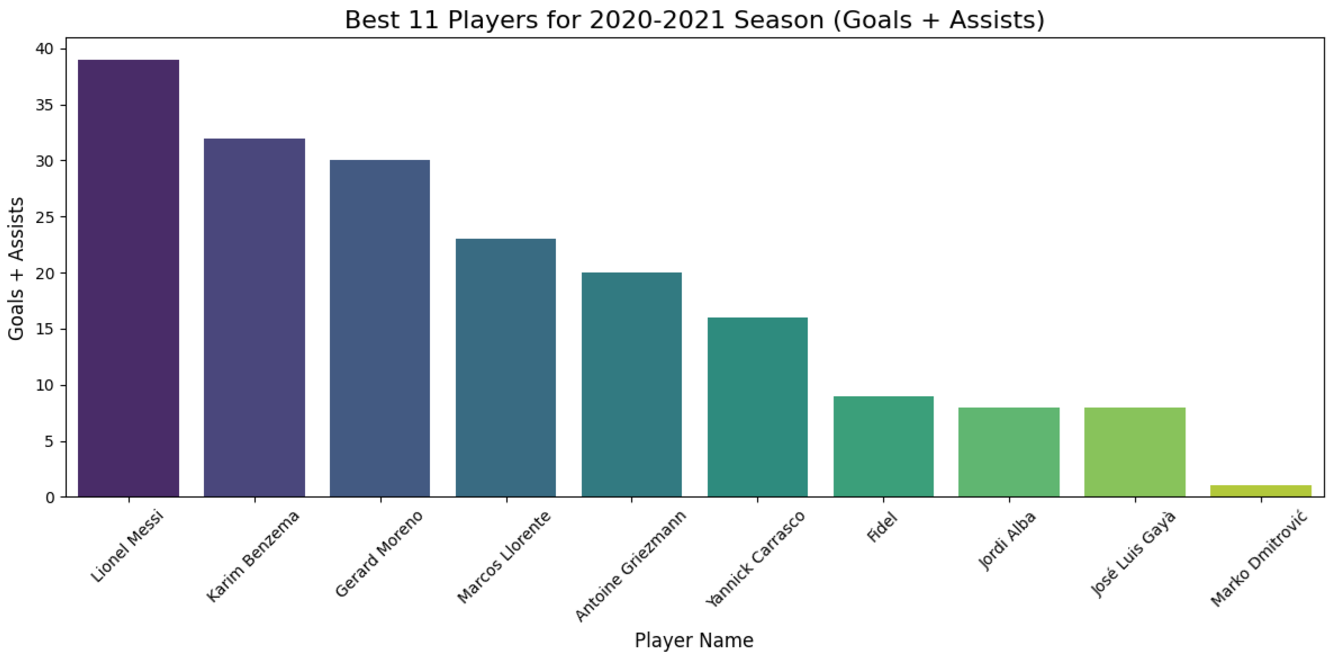
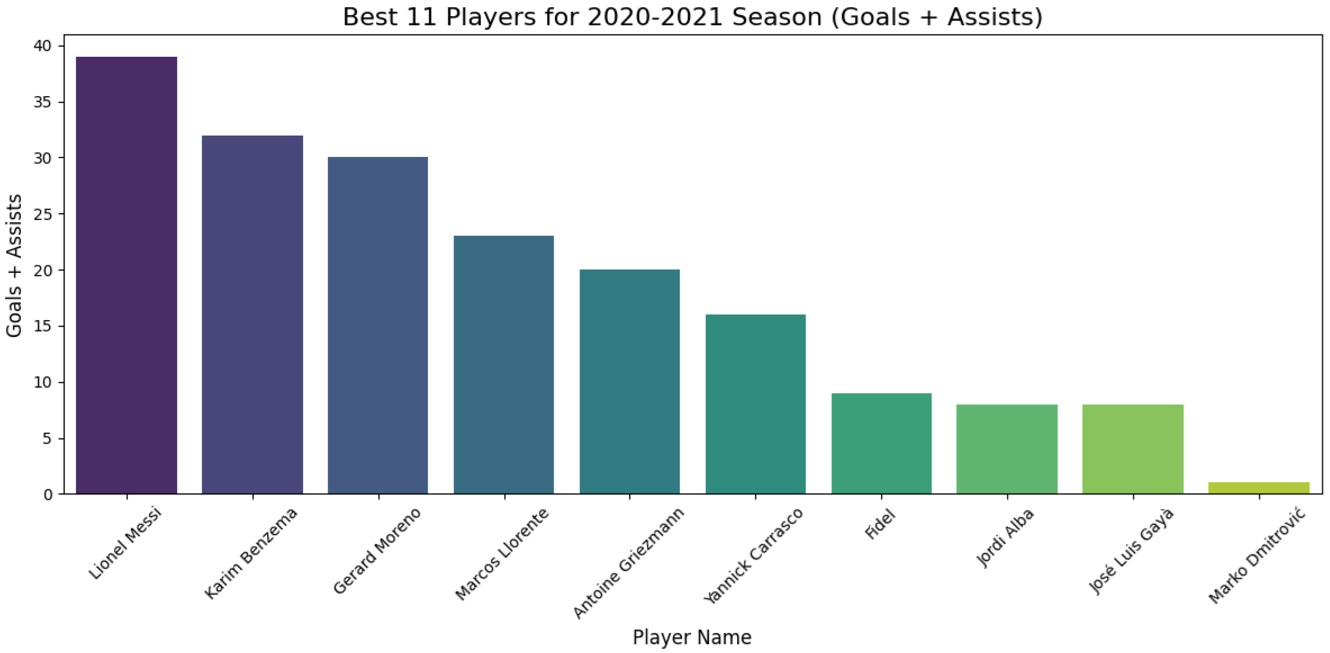
Images

diff --git a/model.html b/model.html
@@ -169,7 +169,7 @@
     <div class="models11-image-container">
         <h4>2020-2021 Season</h4>
         <p>The best 11 players for the 2020-2021 season, ranked by Goals + Assists:</p>
-        <img src="images/best_11_2020-2021_goals_assists.png" alt="Best 11 Players for 2020-2021 Season">
+        <img src="images/best_11_2020-2021_goals_assists.jpg" alt="Best 11 Players for 2020-2021 Season">
     </div>
 
     <div class="models11-image-container">
